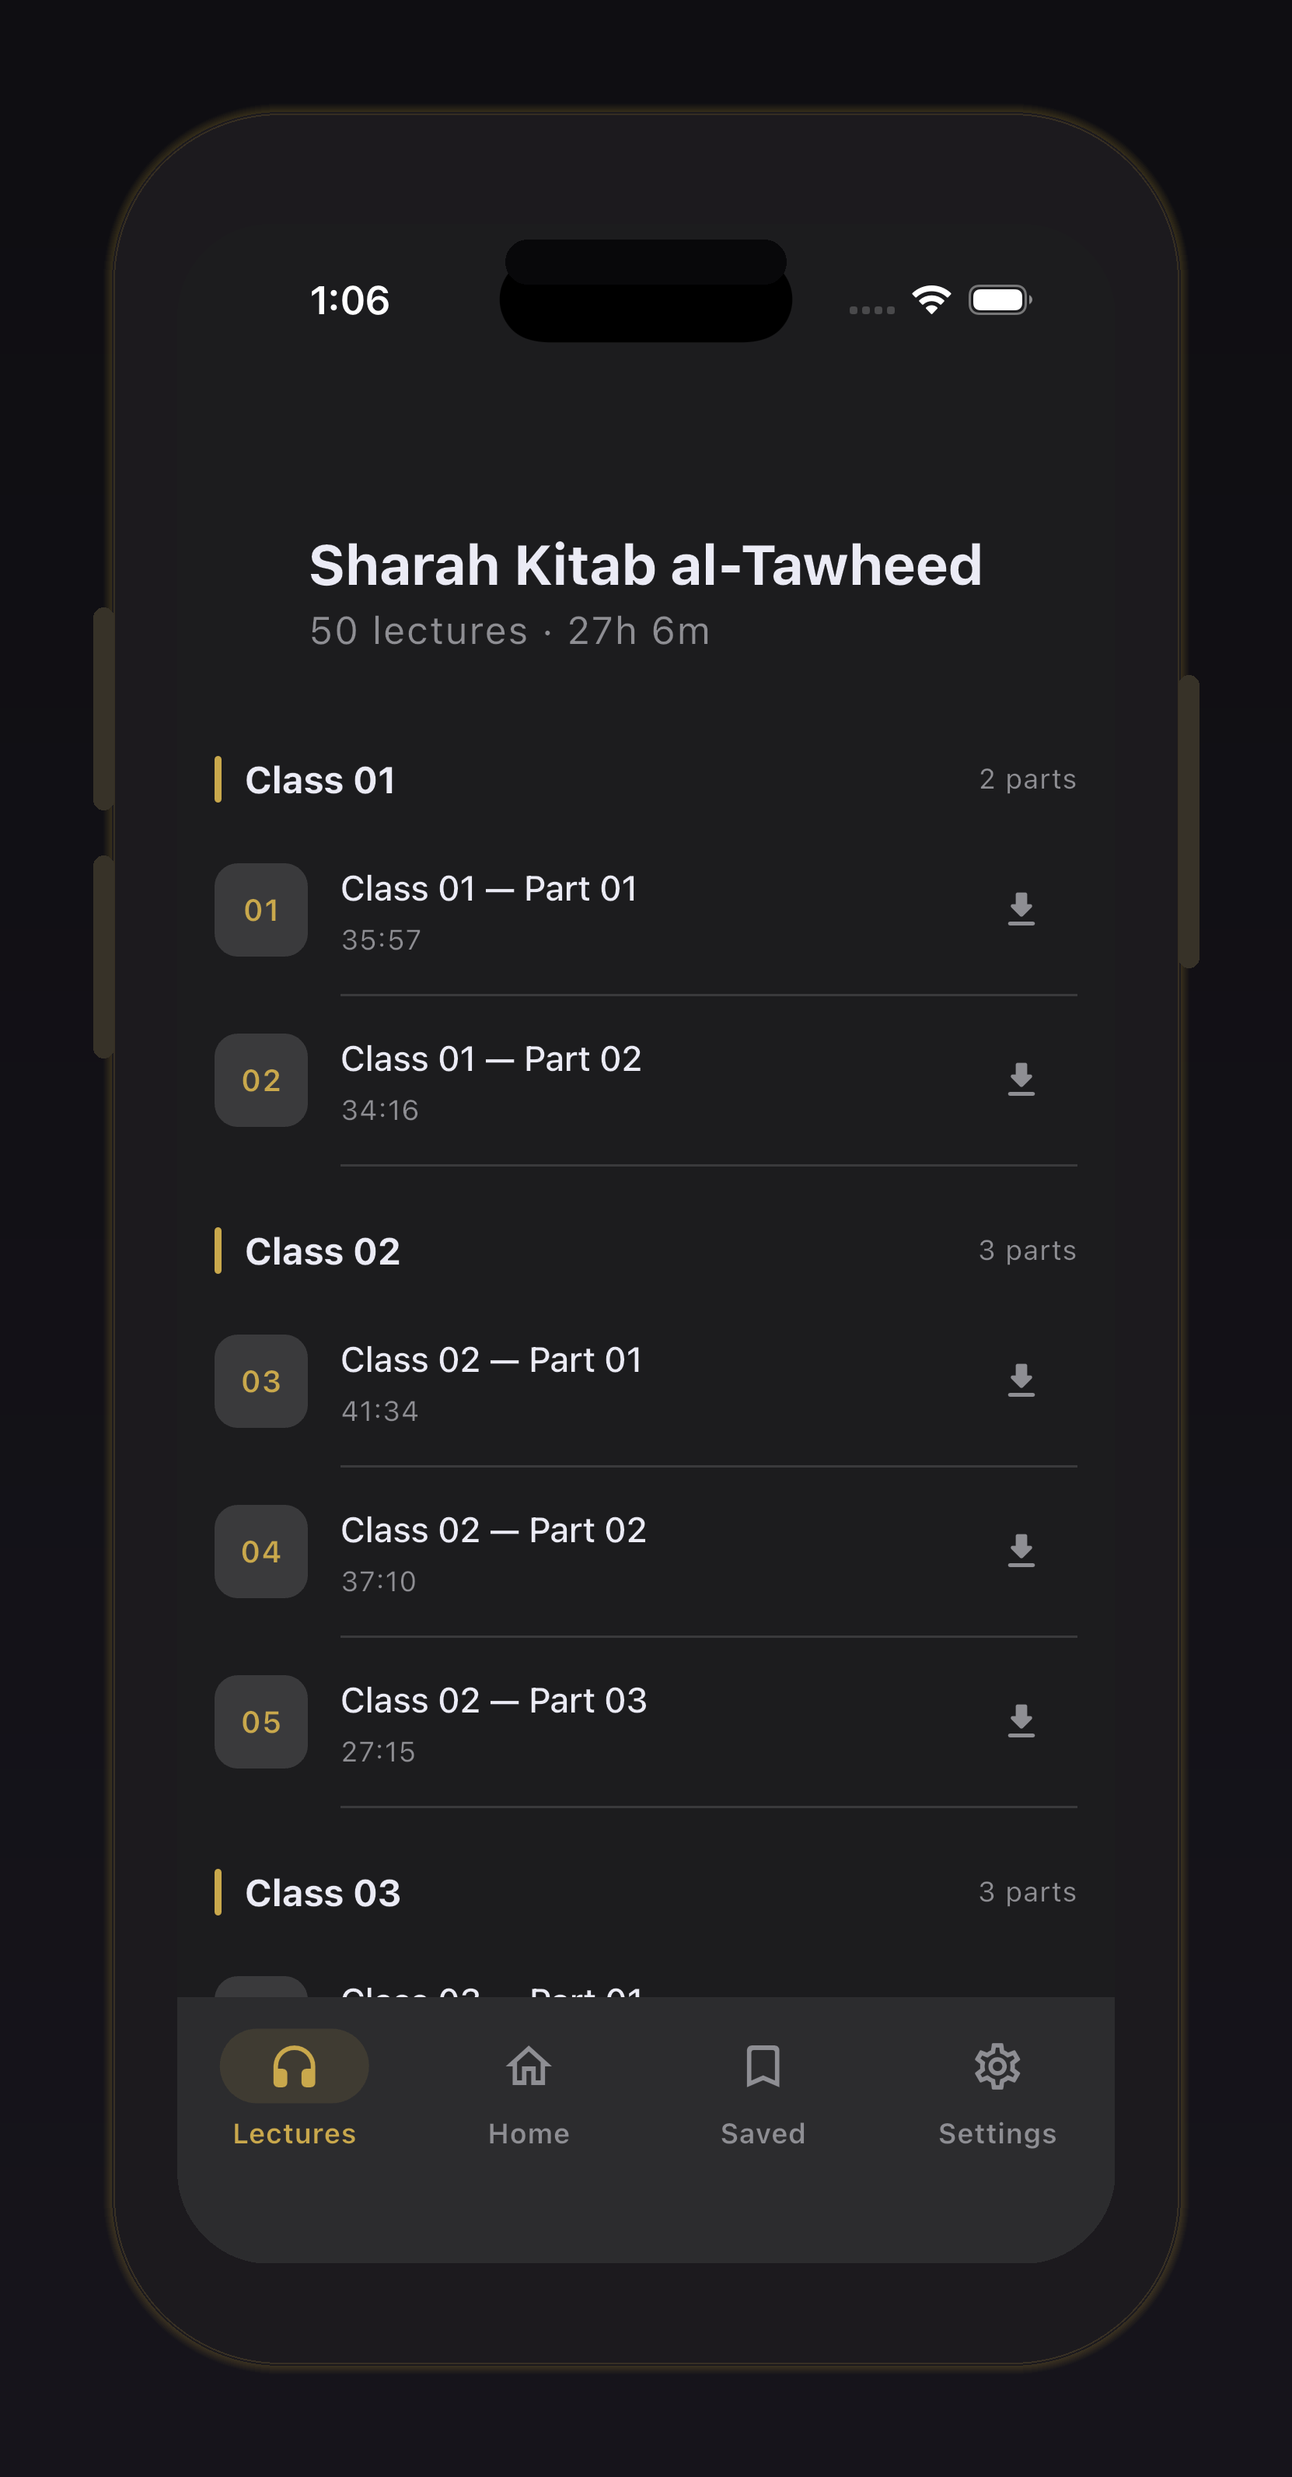
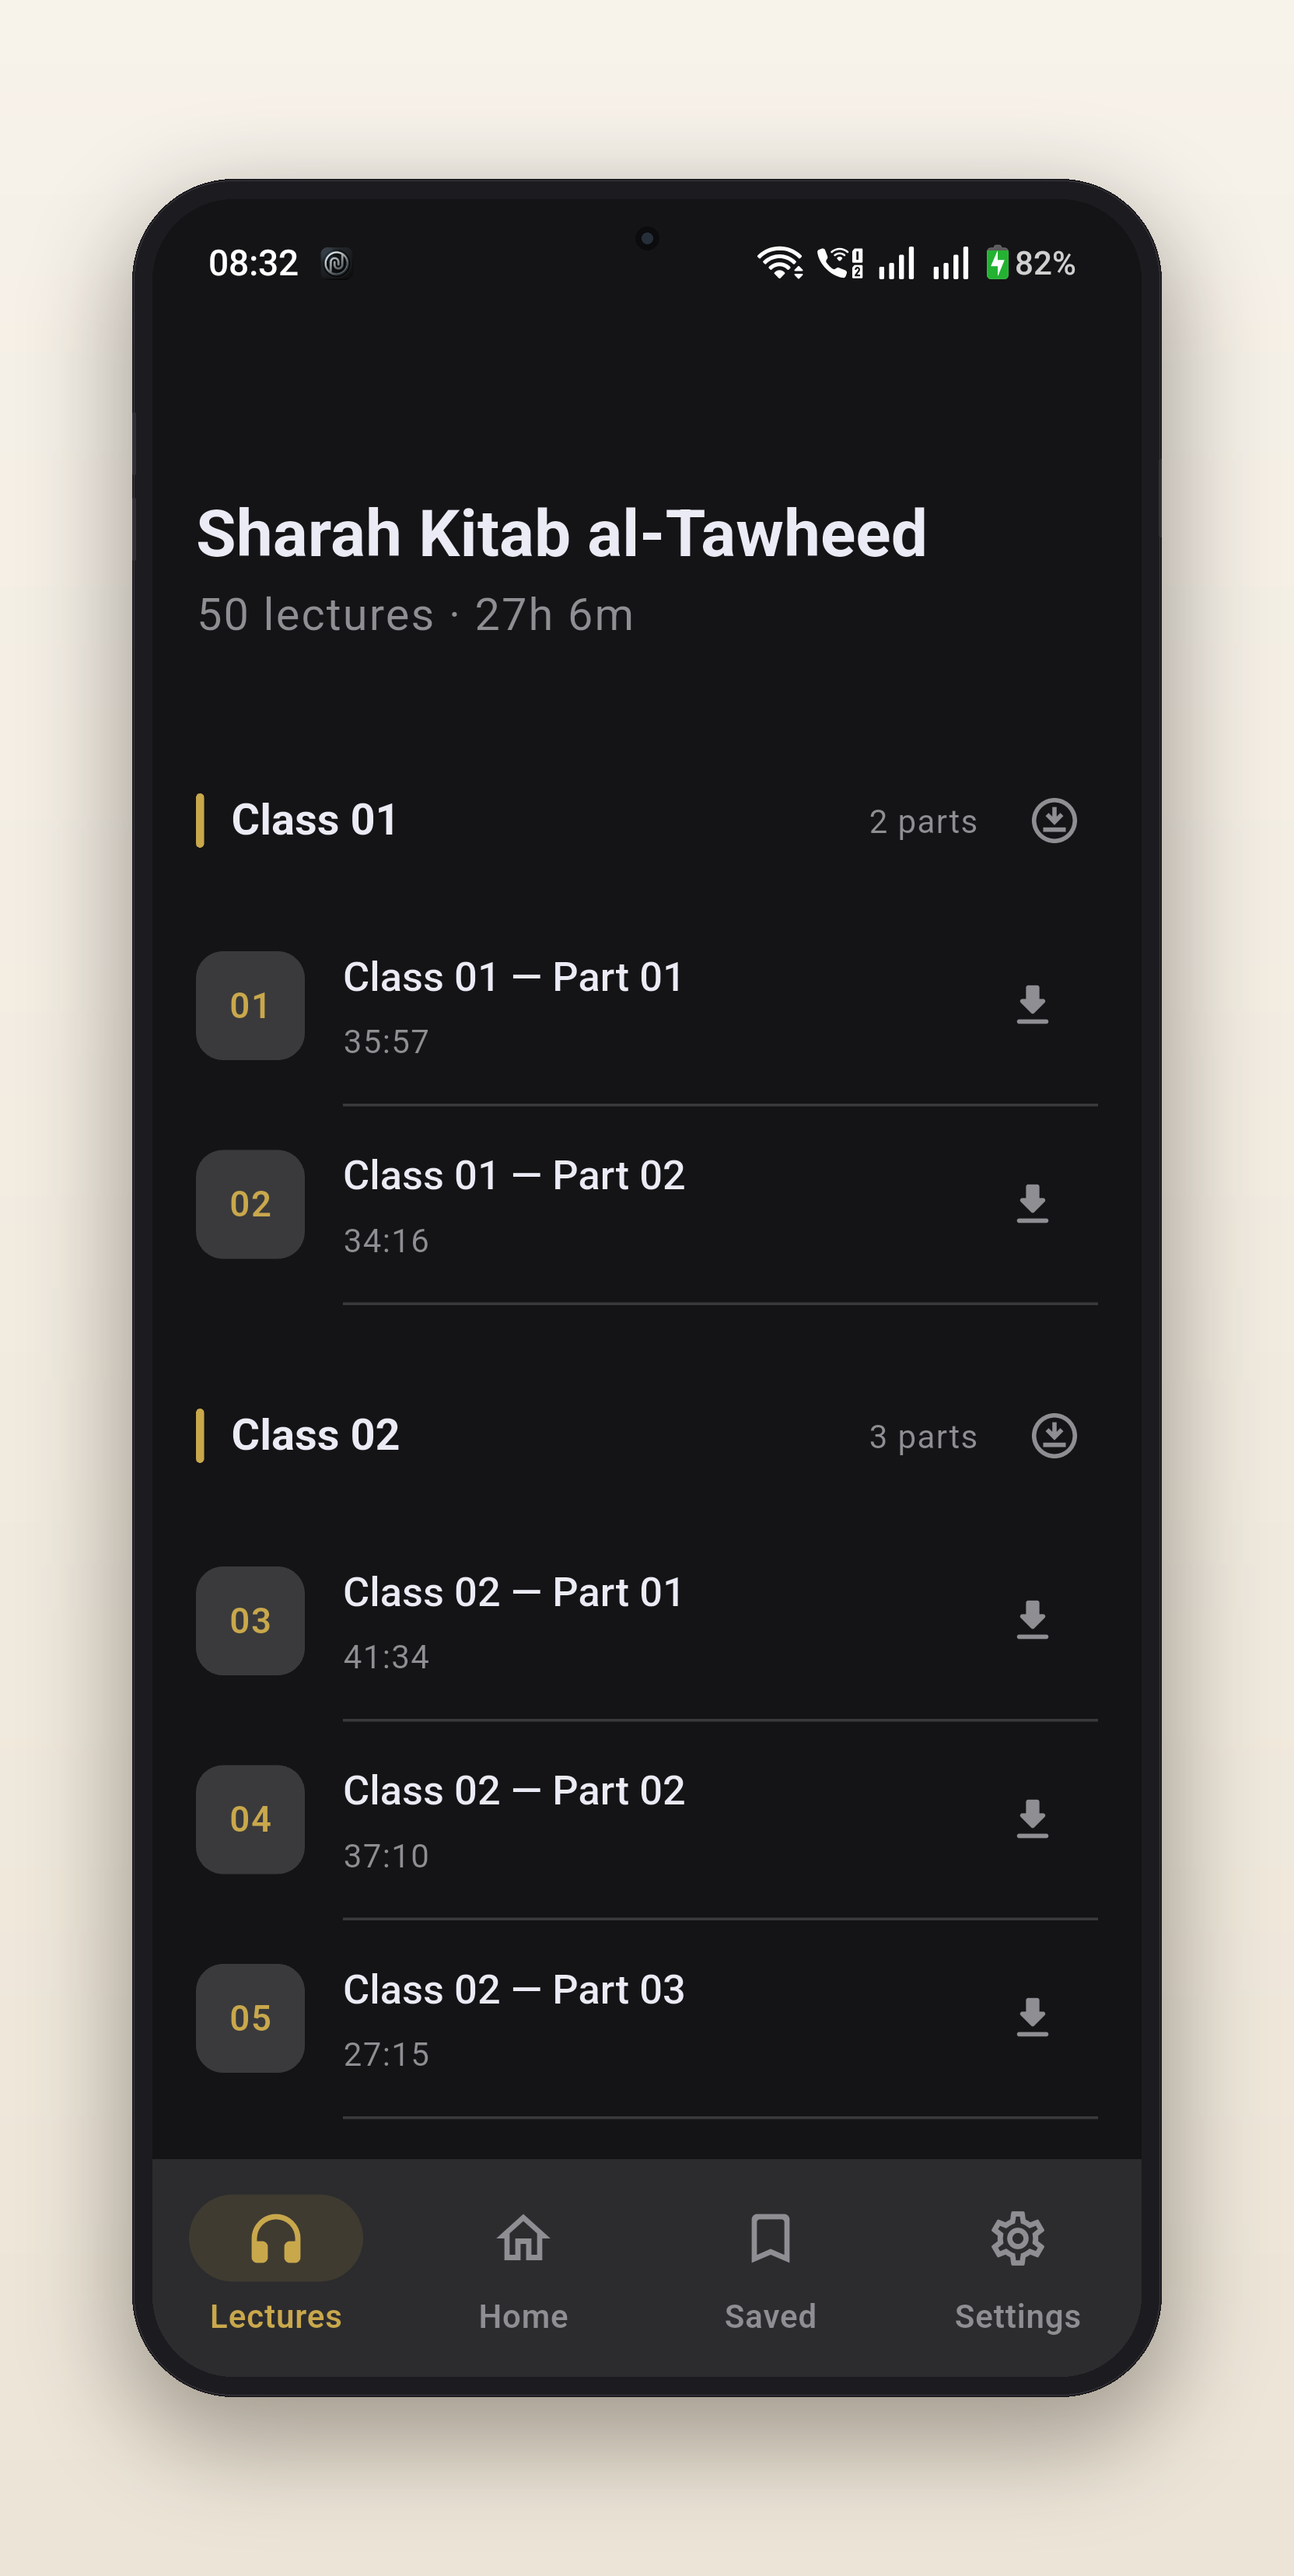
Refresh app screenshots to v2 thin-bezel set, add Offline Library & Settings
Replaces the dark-framed phone screenshots with the new thin-bezel/light-
background style (visually consistent with the site), and adds two new
screens — Offline Library and Settings — that showcase the app's new
offline downloads module (Wi-Fi-only mode, per-chapter storage management,
one-tap cleanup).

Both the homepage carousel and download page galleries now show all 6
screens (EN + UR). Updated the "Offline Downloads" feature copy on the
download page and i18n strings to mention Wi-Fi-only mode and storage
cleanup.

diff --git a/src/i18n/ur.ts b/src/i18n/ur.ts
@@ -111,7 +111,7 @@ export const ur: Translations = {
     ctaDesc: "{appName} — {count} دروس، {duration} کا فائدہ۔",
     streamNote: "آن لائن سننا پسند ہے؟",
     features: [
-      { desc: "سفر یا انٹرنیٹ کی عدم موجودگی میں دروس محفوظ کریں۔" },
+      { desc: "سفر یا انٹرنیٹ کی عدم موجودگی میں دروس محفوظ کریں — وائی فائی صرف موڈ اور ایک کلک میں صفائی کے ساتھ اسٹوریج صاف ستھرا رکھیں۔" },
       { desc: "ہر حصے میں بالکل وہیں سے شروع کریں جہاں چھوڑا تھا۔" },
       { desc: "مکمل ہونے کی ترقی کے ساتھ ہر کلاس کو ترتیب سے پڑھیں۔" },
       { desc: "دوسری ایپس استعمال کرتے ہوئے یا اسکرین بند کرکے سنیں۔" },

diff --git a/src/i18n/en.ts b/src/i18n/en.ts
@@ -109,7 +109,7 @@ export const en = {
     ctaDesc: "{appName} — {count} lectures, {duration} of benefit.",
     streamNote: "Prefer streaming?",
     features: [
-      { desc: "Save lectures for travel or poor connectivity." },
+      { desc: "Save lectures for travel or poor connectivity. Wi-Fi-only mode and one-tap cleanup keep storage tidy." },
       { desc: "Resume exactly where you stopped on each part." },
       { desc: "Work through each class in order with completion tracking." },
       { desc: "Listen while using other apps or with screen off." },
